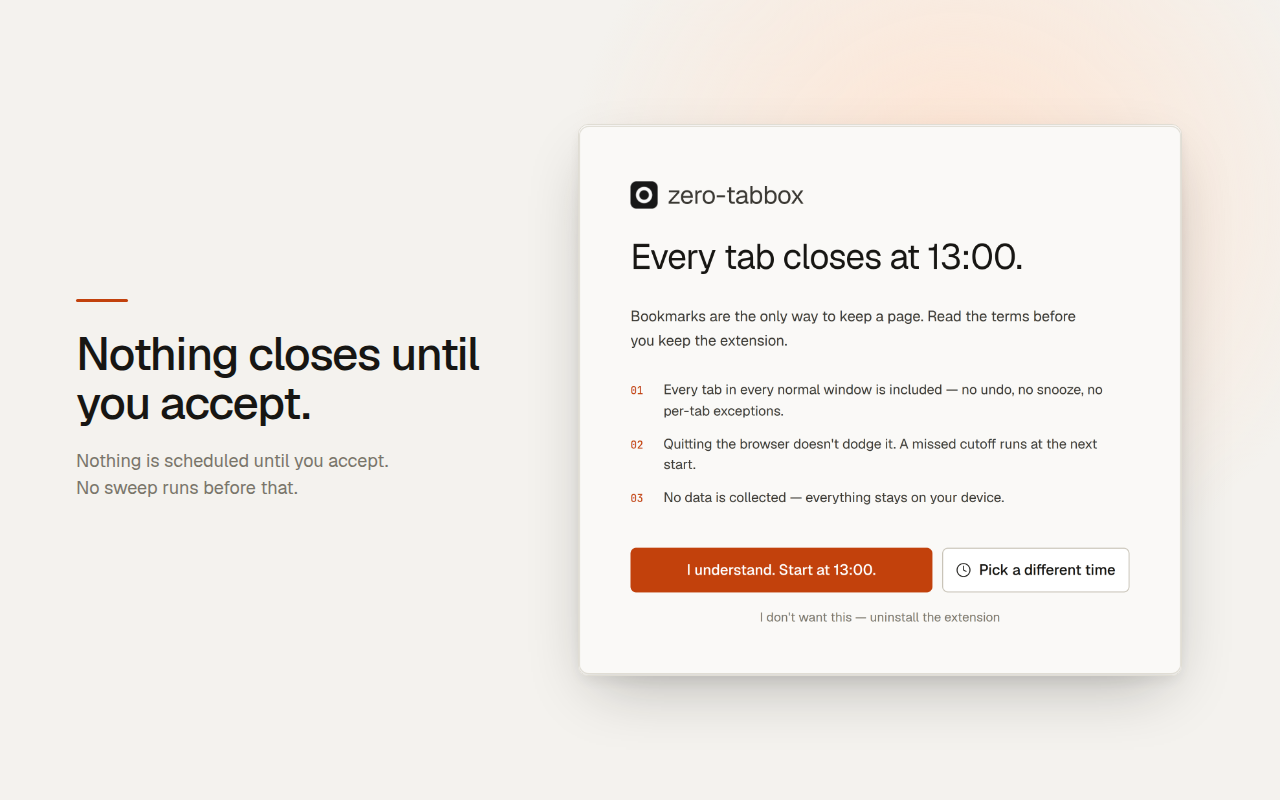
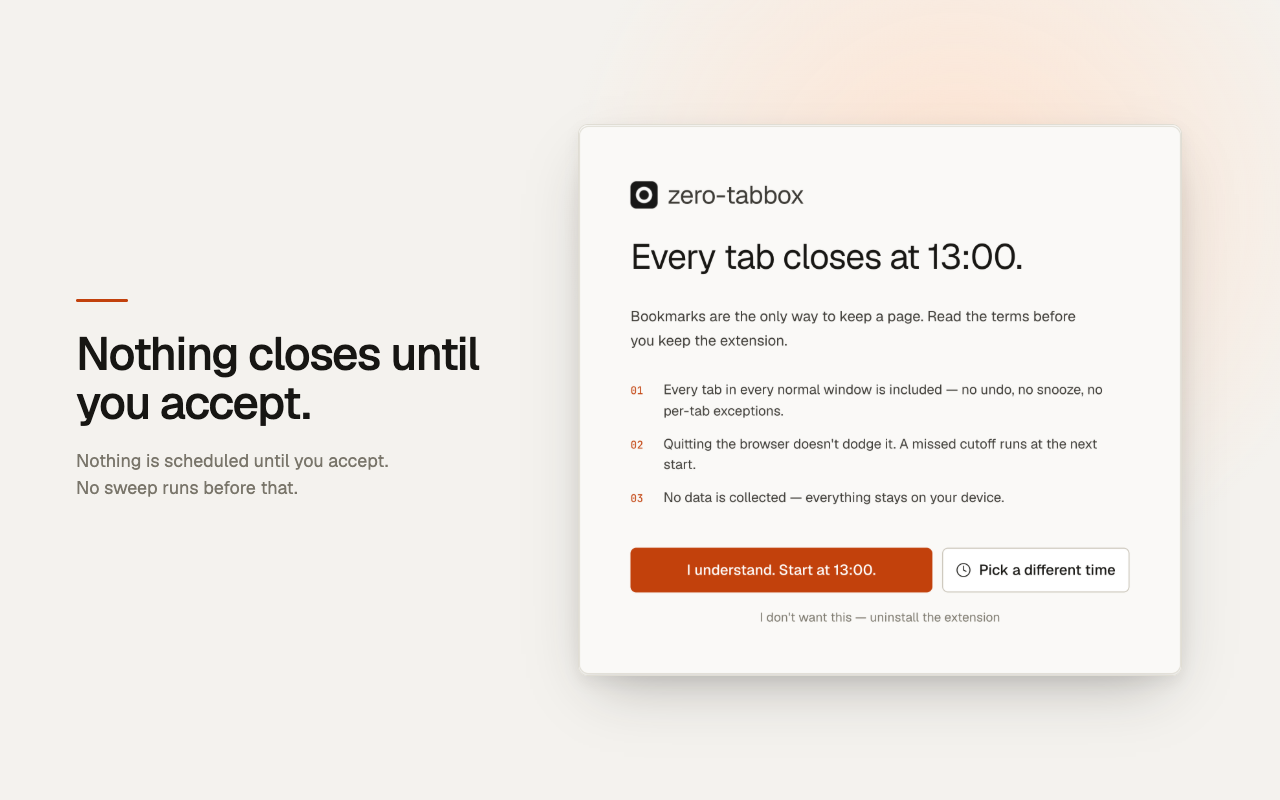
Fix the review findings across the store paperwork and scripts
Two claims were about to be pasted into the Chrome dashboard as fact and were
not true. The single-purpose answer said "No tab is closed until the user has
accepted the terms", and the deceptive-installation row closed with "Nothing
destructive precedes consent" — but `end-day-now` reaches `runSweep('manual')`
with no `accepted` check, deliberately, because README's contract says clicking
it is its own consent. Both now scope the gate to the schedule, which is the
wording section 5's AMO note already used. A reviewer who tests the claim finds
it holds.

The screenshots are regenerated, and the reason is reproducibility rather than
the format. `capture.mjs` passes `--lang`, so the time format was never the
capturing machine's — it was `SHOT_LANG`, undocumented and defaulting to a
24-hour locale while the committed shot was 12-hour. The documented command
could not produce the committed image. Rather than change the default to match
the image, the set is re-rendered on the default, so `bun store/capture.mjs`
reproduces what is in the repo. The cost is that shots 1, 2, 4 and 5 move too
(the popup's ETA is wall-clock derived) and that C5 can no longer point at the
picture: the committed shot is now the 24-hour render, the case that never
clipped. C5 rests on the 12-hour measurement it already carried.

`store/README.md` loses the section explaining why the shot depended on the
capturing machine, since it did not, and `theme.css`'s comment is trimmed to
[…]

Changed region(s): [[0.0625, 0.4062, 0.375, 0.5312], [0.0625, 0.5625, 0.3125, 0.625]]

diff --git a/tests/palette.test.ts b/tests/palette.test.ts
@@ -1,0 +1,82 @@
+/**
+ * Asserts `store/compose.mjs`'s PALETTE still matches the tokens it was copied
+ * from (design.md D10, "tokens are the only source of color").
+ *
+ * The screenshots are composited against hand-copied hex values, so a colour
+ * changed in `theme.css` would otherwise leave the committed listing images on
+ * the old palette with nothing to notice. This is that notice.
+ *
+ * Both files are read as text. `compose.mjs` imports Playwright at top level,
+ * and Playwright is deliberately not a devDependency (store/README.md), so
+ * importing it here would break `bun run test` on a clean checkout.
+ */
+import { describe, expect, it } from 'bun:test';
+import { readFileSync } from 'node:fs';
+import { dirname, join } from 'node:path';
+import { fileURLToPath } from 'node:url';
+
+const ROOT = join(dirname(fileURLToPath(import.meta.url)), '..');
+
+/** Which token each PALETTE key mirrors. `bg` takes the subtle tone, not `--color-bg`. */
+const MIRRORS: Record<string, string> = {
+  bg: '--color-bg-subtle',
+  border: '--color-border',
+  fg: '--color-fg',
+  fg3: '--color-fg-3',
+  accent: '--color-accent',
+  emberSoft: '--color-accent-soft',
+};
+
+/** The light-mode `:root` block only — the captures pin `colorScheme: 'light'`. */
+function lightTokens(css: string): Map<string, string> {
+  // Comments first: theme.css's contrast notes name tokens in prose, and a
+  // `--x:` inside one runs on to the next real `;` and swallows a declaration.
+  const stripped = css.replace(/\/\*[\s\S]*?\*\//g, '');
+  const root = stripped.slice(stripped.indexOf(':root'), stripped.indexOf('@media'));
+  const tokens = new Map<string, string>();
+  for (const match of root.matchAll(/(--[\w-]+)\s*:\s*([^;]+);/g)) {
+    const [, name, value] = match;
+    if (name !== undefined && value !== undefined) tokens.set(name, value.trim());
+  }
+  return tokens;
+}
+
+/** Follows `var(--x)` indirection to the ramp; most semantic tokens are aliases. */
+function resolve(tokens: Map<string, string>, name: string): string {
+  const seen = new Set<string>();
+  let value = tokens.get(name);
+  while (value !== undefined) {
+    const alias = value.match(/^var\((--[\w-]+)\)$/)?.[1];
+    if (alias === undefined) return value;
+    if (seen.has(alias)) throw new Error(`${name} resolves in a cycle`);
+    seen.add(alias);
+    value = tokens.get(alias);
+  }
+  throw new Error(`${name} is not declared on :root`);
+}
+
+function palette(js: string): Record<string, string> {
+  const body = js.match(/const PALETTE = \{([^}]+)\}/)?.[1];
+  if (body === undefined) throw new Error('PALETTE literal not found in store/compose.mjs');
+  const entries: [string, string][] = [];
+  for (const match of body.matchAll(/(\w+)\s*:\s*'(#[0-9a-fA-F]{3,8})'/g)) {
+    const [, key, hex] = match;
+    if (key !== undefined && hex !== undefined) entries.push([key, hex]);
+  }
+  return Object.fromEntries(entries);
+}
+
+describe('store/compose.mjs PALETTE', () => {
+  const tokens = lightTokens(readFileSync(join(ROOT, 'src/ui/theme.css'), 'utf8'));
+  const copied = palette(readFileSync(join(ROOT, 'store/compose.mjs'), 'utf8'));
+
+  it('mirrors every token it claims to, and no key has been added unmapped', () => {
+    expect(Object.keys(copied).sort()).toEqual(Object.keys(MIRRORS).sort());
+  });
+
+  for (const [key, token] of Object.entries(MIRRORS)) {
+    it(`${key} still equals ${token}`, () => {
+      expect(copied[key]?.toLowerCase()).toBe(resolve(tokens, token).toLowerCase());
+    });
+  }
+});

diff --git a/src/ui/theme.css b/src/ui/theme.css
@@ -597,11 +597,9 @@ button {
 
 /*
  * The chip's time is an <input type="time"> dressed as the design's numeral.
- *
- * It has no width on purpose: Chromium formats this control from the browser's
- * UI language, not from navigator.language or the interface-language setting,
- * so the string is `18:00` on one machine and `06:00 PM` on another. Any fixed
- * width fits one and clips the other (sweep-controls.spec.md).
+ * It has no width on purpose — Chromium formats the control from the browser's
+ * UI language, so any fixed width clips one of the two formats
+ * (sweep-controls.spec.md).
  */
 .chip-time {
   border: 0;

diff --git a/store/README.md b/store/README.md
@@ -83,22 +83,13 @@ Both are browser and OS chrome, which a page screenshot cannot capture — a
 headless capture only ever sees page content. Getting those honestly needs a
 real desktop screen capture with the extension installed. Do not mock them.
 
-## Why shot 3 depends on the capturing machine's language
+## Shot 3's time format
 
-`.chip-time` used to carry `width: 4.2em`, sized for a `HH:MM` field, while
-Chromium formats `<input type="time">` from its **UI language** — not from
-`navigator.language`, and not from the extension's own interface-language
-setting. So a 12-hour host rendered `06:00 PM` into a five-character box and
-clipped it to `06:00 P`, and earlier versions of this shot showed exactly that.
-
-The control no longer has a width and sizes itself to whatever its host
-renders; `sweep-controls.spec.md` carries the requirement. The committed shot
-was regenerated on a 12-hour host — the case the fix exists for — and shows
-`01:00 PM` / `06:00 PM` in full.
-
-That is worth knowing before you regenerate: the times in this shot will read
-`13:00` / `18:00` on a 24-hour machine and `01:00 PM` / `06:00 PM` on a
-12-hour one. Both are correct. Neither clips.
+Chromium formats `<input type="time">` from the browser's UI language, which
+`capture.mjs` pins with `--lang` (`SHOT_LANG`, default `en-GB`) — so the
+committed shot reads `13:00` / `18:00`, and `SHOT_LANG=en-US` gives the
+12-hour render. Why the chip has to survive either is `sweep-controls.spec.md`
+§ "The cutoff time is legible in any browser UI language".
 
 ## Where these get uploaded
 

diff --git a/publishing.md b/publishing.md
@@ -42,7 +42,8 @@ the code and both manifests pass, and what is left is submission paperwork: the
 Chrome privacy-practices answers (which must give the same answer the Firefox
 manifest already gives: no data collected — see [README § Data
 collection](README.md#data-collection)), the AMO source-code build
-instructions, and listing assets. All of it is drafted there ready to paste.
+instructions, and the listing copy. The paperwork is drafted there ready to
+paste; the 440×280 promo tile is the one asset still to produce.
 [`PRIVACY.md`](PRIVACY.md) is the privacy policy a listing can link to. The
 listing screenshots live in `store/`, regenerated from the real extension by
 two scripts — see [`store/README.md`](store/README.md).

diff --git a/PRIVACY.md b/PRIVACY.md
@@ -28,7 +28,7 @@ Everything the extension stores lives in your browser's local extension storage
 
 | Key | What it holds |
 | --- | --- |
-| `settings` | Your cutoff times, how many minutes of notice you want, and three on/off switches. |
+| `settings` | Your cutoff times, how many minutes of notice you want, three on/off switches, and which interface language you picked. |
 | `accepted` | Whether you accepted the extension's terms. Nothing is scheduled until you have. |
 | `lastAutoCutoffId` | Which scheduled cutoff last ran, so it does not run twice. |
 | `lastSweep` | When the last close ran, how many tabs it closed, and whether they were bookmarked first. |
